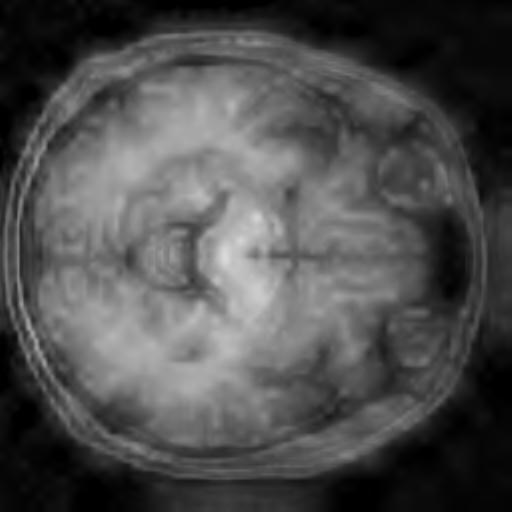
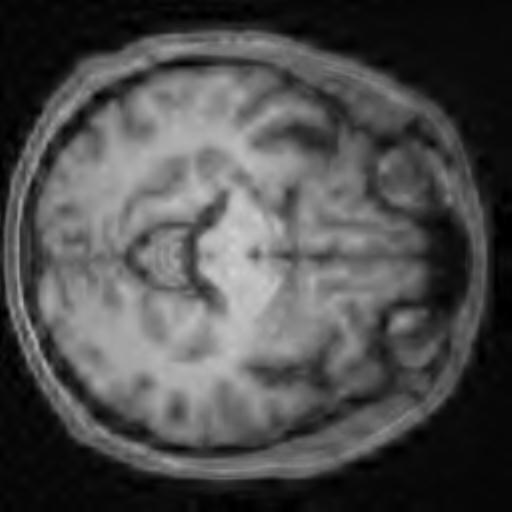
fixed mistaked in bm3d_lp bm3d_tweked code

diff --git a/test_scripts/bm3d_lp.m b/test_scripts/bm3d_lp.m
@@ -30,10 +30,11 @@ for i = 1:floor((n+1)/2)
 end
 
 % generating top 4 levels with bm3d on level from HR pyramid
+pyr_merged_bm3d = pyr_merged;
 for i = 0:floor((n+1)/2)
     [PSNR, y_est] = BM3D(originalIm, p_hr{n+1-i}, 70, 'np',0);
-    pyr_merged{n+1-i} = y_est;
-    xr = lpr(pyr_merged, pfilt);
+    pyr_merged_bm3d{n+1-i} = y_est;
+    xr = lpr(pyr_merged_bm3d, pfilt);
 %     figure()
 %     subplot(1,2,1)
 %     imshow(p_hr{i})
@@ -49,11 +50,12 @@ for i = 0:floor((n+1)/2)
 
 end
 
+pyr_merged_bm3d_tweaked = pyr_merged;
 % generating top 4 levels with bm3d on level from HR pyramid
 for i = 0:floor((n+1)/2)
     [PSNR, y_est,~] = BM3DTweaked(originalIm,p_hr{n+1-i},single(p_lr{n+1-i}), 70, 'np',0);
-    pyr_merged{n+1-i} = y_est;
-    xr = lpr(pyr_merged, pfilt);
+    pyr_merged_bm3d_tweaked{n+1-i} = y_est;
+    xr = lpr(pyr_merged_bm3d_tweaked, pfilt);
     figure()
     imshow(xr)
     title(sprintf('top 4 levels from HR, bm3d_tweaked on first %.0f levels, 4 bottoms levels from LR',i+1));
